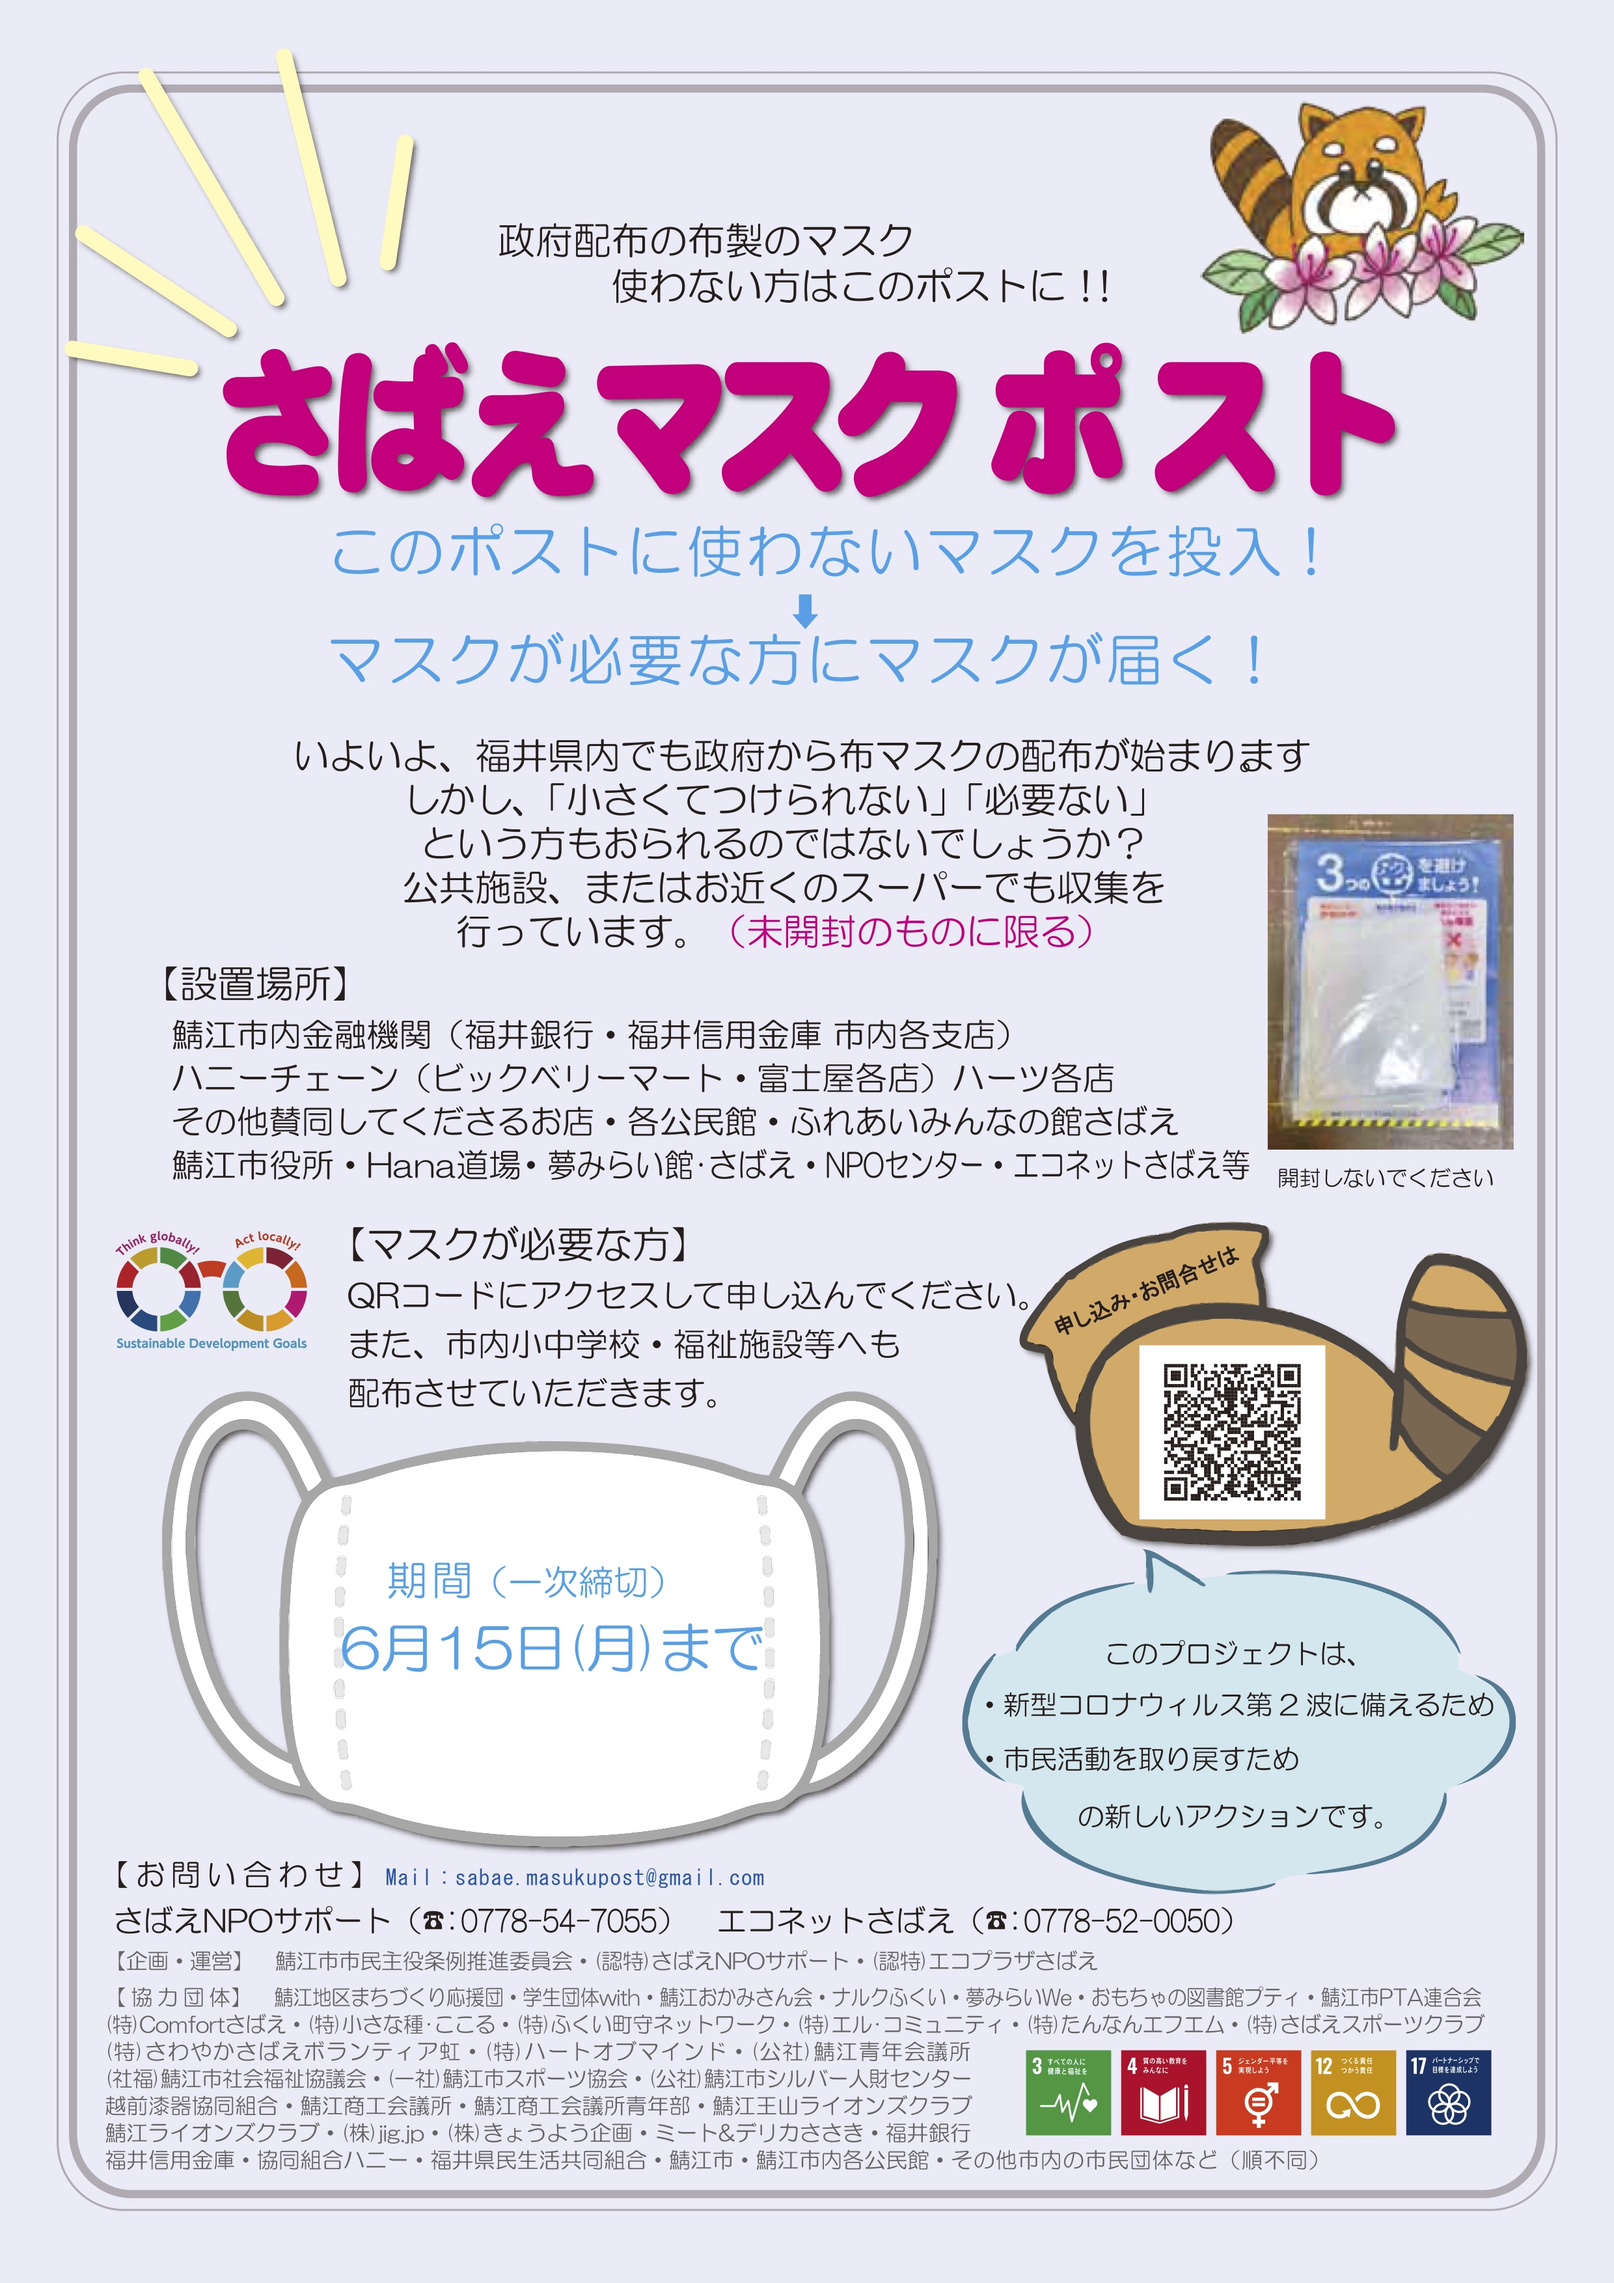
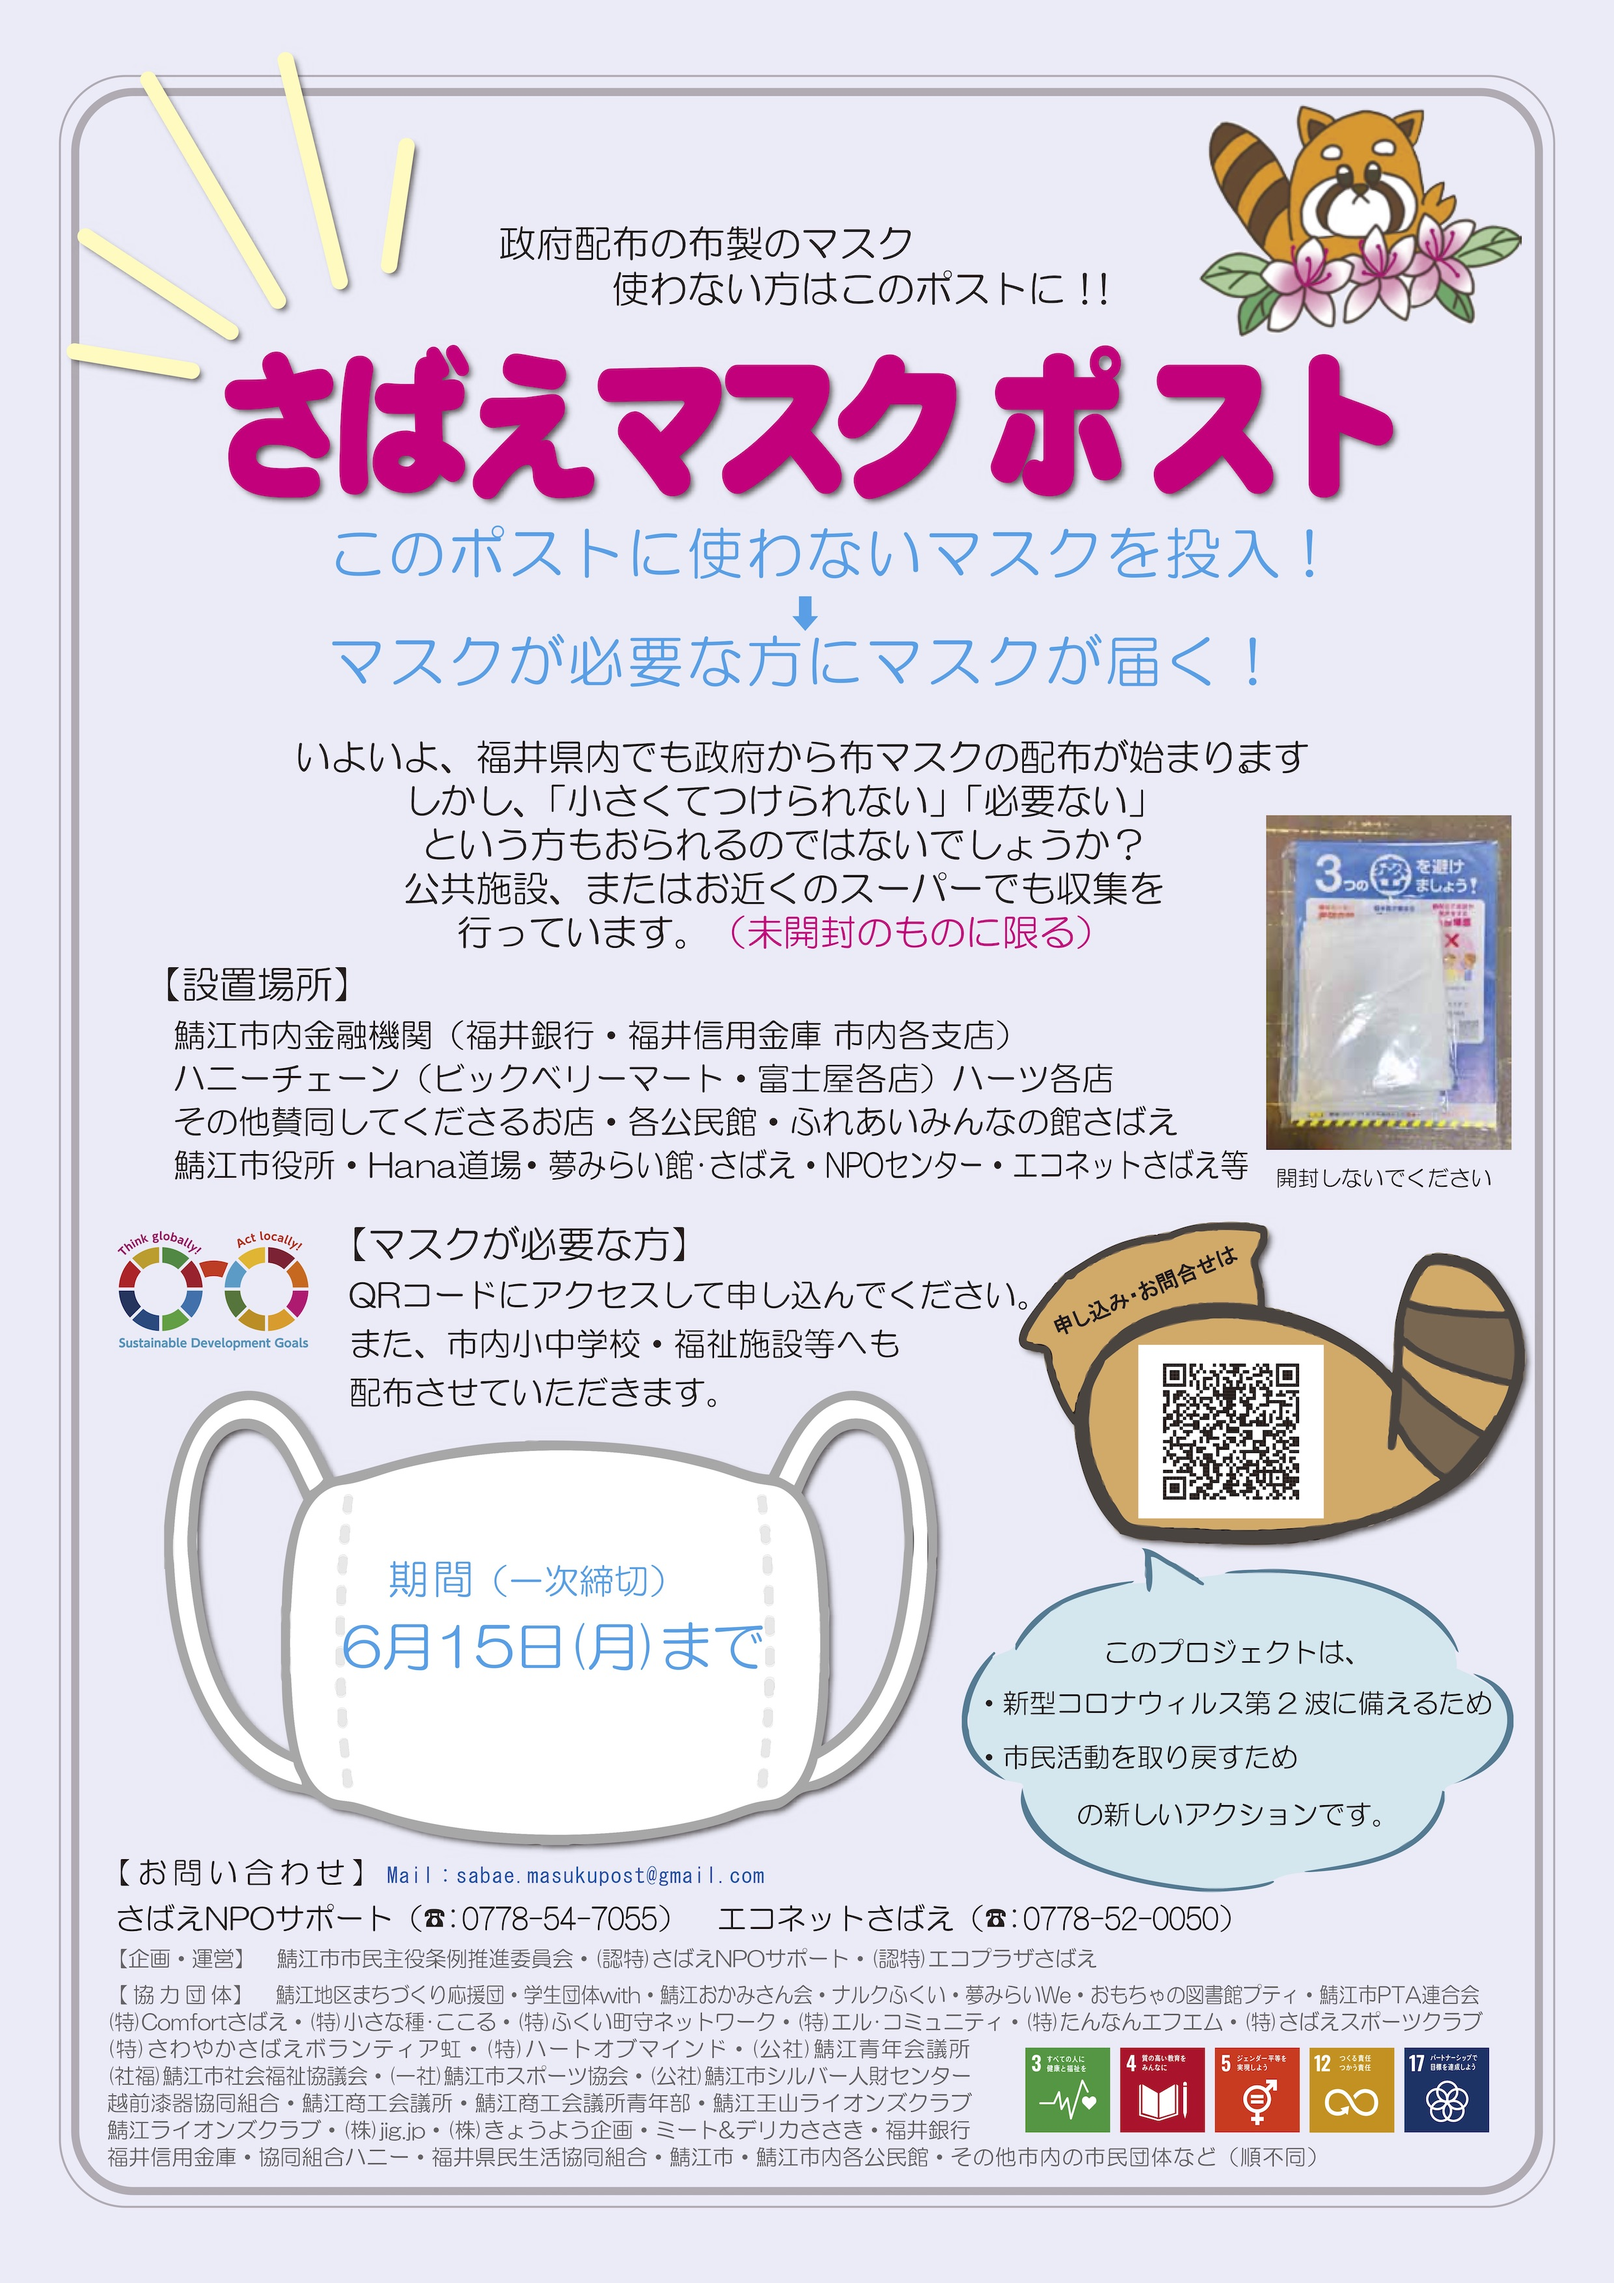
update img

diff --git a/index.css b/index.css
@@ -1,12 +1,18 @@
 body {
-    background-color: #ECECF7;
+    background-color: hsl(240, 41%, 90%);
     margin: 0;
     padding: 0;
+}
+.main {
+    margin: 0 auto;
+    padding: 0;
+    background-color: #ECECF7;
+    max-width: 71vh;
 }
 img {
     margin: 0;
     padding: 0;
-    width: 100vw;
+    width: 100%;
 }
 h1 {
     font-size: 150%;
@@ -20,7 +26,7 @@ li a {    margin-left: 1em;
     color: black !important;
 }
 li img {
-    width: 80vw;
+    width: 90%;
 }
 
 div {

diff --git a/index.html b/index.html
@@ -22,6 +22,7 @@
 </head>
 
 <body>
+<div class="main">
   <img src='main.jpg'>
 
   <div>
@@ -46,7 +47,7 @@
     </ul>
     <div>CC BY <a href="https://mask.sabae.cc/">さばえマスクポスト</a></div>
   </div>
-
+</div>
 </body>
 
 </html>
